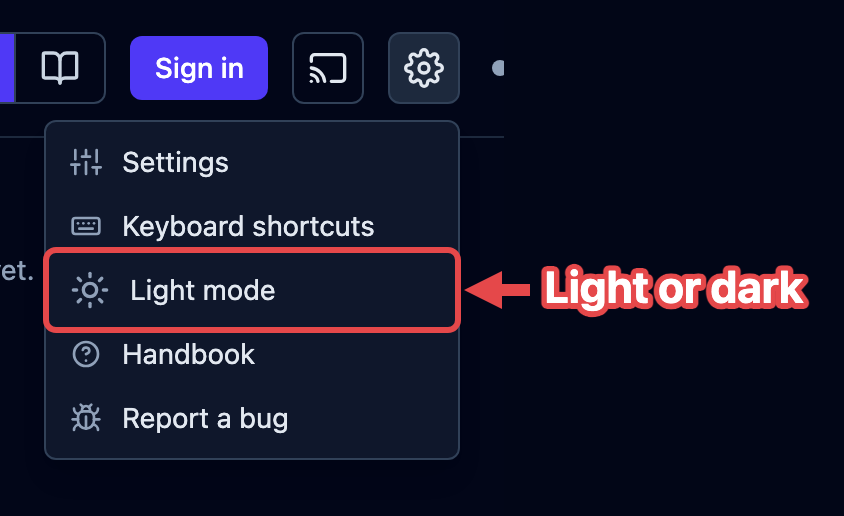
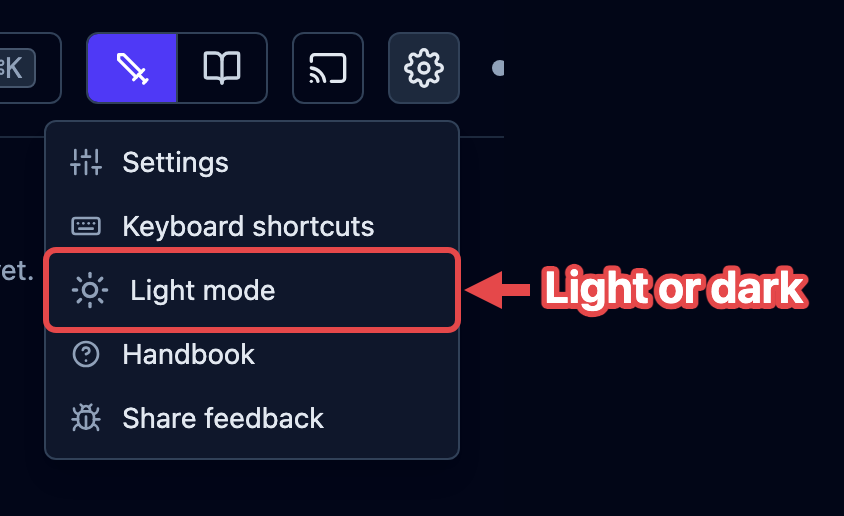
Docs: Document in-console feedback reporting
Explain public feedback and private security reporting, optional diagnostics, and delivery recovery. Refresh the settings menu capture and add a reproducible feedback-form screenshot.

Refs OpenFrayApp/console#130

Changed region(s): [[0.0, 0.062, 0.3389, 0.2171], [0.1232, 0.7752, 0.4005, 0.8372]]

diff --git a/src/content/docs/reference/settings.md b/src/content/docs/reference/settings.md
@@ -13,7 +13,7 @@ players see on the screen you share with them, which keys run which commands, an
 whether the app is light or dark. They're set once and remembered in your browser, with
 no account needed. Click the **gear** at the top right and choose **Settings**. The same
 menu holds the light and dark switch, the keyboard cheat sheet, a link to this handbook,
-and **Report a bug**, which opens a new issue on GitHub.
+and **Share feedback**, which opens a form in the console.
 
 Settings opens on five tabs (**Libraries**, **Tracker**, **Player view**, **Keyboard**,
 and **Importer**) and starts on Libraries.
@@ -176,13 +176,46 @@ Your keys are remembered in this browser, like the light and dark choice. They d
 travel with your account, so another computer starts from the defaults.
 :::
 
+## Share feedback
+
+Open the **gear** at the top right and choose **Share feedback**. You can submit without
+an OpenFray or GitHub account:
+
+1. Choose a **Category**: **Bug**, **Feature request**, **Question**, **Other**, **Not sure**, or **Security**.
+2. Enter a **Title** (up to 256 characters).
+3. Enter a **Description** (up to 5,000 characters).
+4. For a bug, optionally fill **Expected behavior (optional)** (up to 2,000 characters).
+5. For a bug, optionally select **Include technical details** and review the preview.
+6. Complete verification.
+7. Click **Send feedback**.
+
+![The Share feedback form with category, title, description, expected behavior, and an unchecked technical-details option.](../../../assets/screens/share-feedback.png)
+
+Ordinary feedback becomes a public GitHub issue. Keep private information out of the title
+and description. **Security** feedback goes privately to `reports@openfray.app` by email
+and never creates a GitHub issue.
+
+Technical details include browser, operating system, viewport size, and board counts.
+They exclude names, statistics, notes, account details, and the game log.
+
+A successful GitHub submission offers **View issue**. If GitHub is unavailable, the console
+attempts email delivery and shows a separate confirmation. Email acceptance does not confirm
+that the message reached the mailbox.
+
+Closing and reopening keeps your draft until a successful submission or page reload.
+Closing during submission asks for confirmation and does not cancel sending.
+
+If sending is not confirmed, keep the draft and choose **Try again** or **Copy feedback**.
+**Report on GitHub** offers manual public reporting. For **Security**, **Email report**
+opens your email program instead.
+
 ## Light or dark
 
 Click the **gear** at the top right, then **Light mode** or **Dark mode**. The row names
 the one you'd switch to. OpenFray opens dark by default. Your choice is remembered in
 your browser, and it's shared with the OpenFray website, so both match.
 
-![The gear menu open in the top bar, showing Settings, Keyboard shortcuts, Light mode, Handbook, and Report a bug.](../../../assets/screens/theme-toggle.png)
+![The gear menu open in the top bar, showing Settings, Keyboard shortcuts, Light mode, Handbook, and Share feedback.](../../../assets/screens/theme-toggle.png)
 
 ## The importer
 
